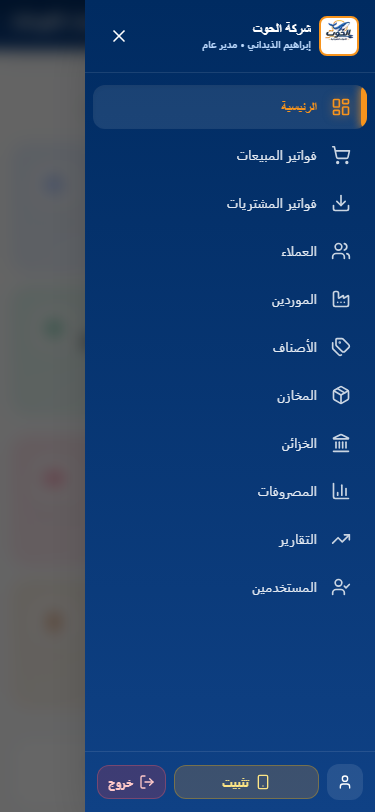
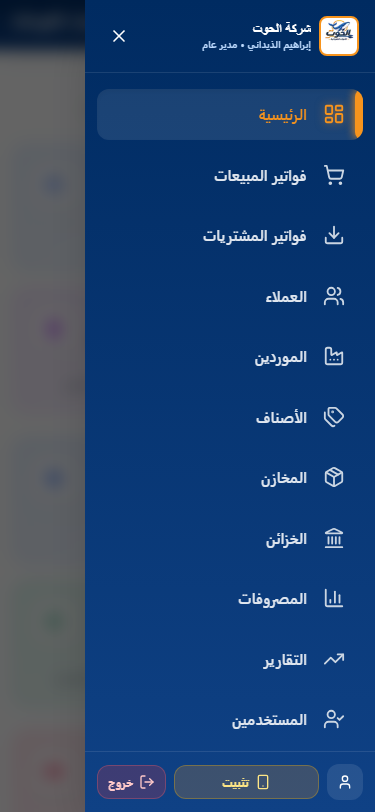
feat: Relocate What you own card to last position, hide routes/route_days, hide admin users, hide inventory tabs from admin profile, add image download buttons to sales view

diff --git a/src/app/(dashboard)/sales/page.tsx b/src/app/(dashboard)/sales/page.tsx
@@ -167,6 +167,10 @@ function SalesTab({ isAdmin }: { isAdmin: boolean }) {
                     <span>🖨</span>
                     <span>طباعة</span>
                   </button>
+                  <button onClick={() => window.open(`/print/invoice/${inv.id}?download_image=1`, "_blank")} className="flex-1 text-xs px-2 py-1.5 rounded bg-blue-50 text-blue-700 hover:bg-blue-100 border border-blue-200 font-medium flex items-center justify-center gap-1">
+                    <span>🖼</span>
+                    <span>صورة</span>
+                  </button>
                   {inv.customer && inv.status !== 'ملغاة' && (
                     <button onClick={() => setPaymentInvoice(inv)} className="flex-1 text-xs px-2 py-1.5 rounded bg-emerald-50 text-emerald-700 hover:bg-emerald-100 border border-emerald-300 font-bold flex items-center justify-center gap-1">
                       <span>💳</span>
@@ -207,6 +211,10 @@ function SalesTab({ isAdmin }: { isAdmin: boolean }) {
                         <button onClick={() => window.open(`/print/invoice/${inv.id}?autoprint=1`, "_blank")} className="text-xs px-2.5 py-1 rounded bg-nazlawy-50 text-nazlawy-700 hover:bg-nazlawy-100 border border-nazlawy-200 font-medium flex items-center gap-1" title="طباعة الفاتورة">
                           <span>🖨</span>
                           <span>طباعة</span>
+                        </button>
+                        <button onClick={() => window.open(`/print/invoice/${inv.id}?download_image=1`, "_blank")} className="text-xs px-2.5 py-1 rounded bg-blue-50 text-blue-700 hover:bg-blue-100 border border-blue-200 font-medium flex items-center gap-1" title="تحميل صورة الفاتورة للواتساب">
+                          <span>🖼</span>
+                          <span>صورة</span>
                         </button>
                         {inv.customer && inv.status !== 'ملغاة' && (
                           <button onClick={() => setPaymentInvoice(inv)} className="text-xs px-2.5 py-1 rounded bg-emerald-50 text-emerald-700 hover:bg-emerald-100 border border-emerald-300 font-bold flex items-center gap-1 shadow-sm" title="تسجيل تحصيل لهذه الفاتورة">
@@ -679,6 +687,10 @@ function InvoiceDetailsModal({ invoice, invoiceId, isAdmin, onClose, onChanged }
 
         <div className="flex flex-wrap gap-2 pt-3 border-t">
           <button onClick={() => window.open(`/print/invoice/${invoiceId}?autoprint=1`, "_blank")} className="btn-secondary text-sm">🖨 طباعة</button>
+          <button onClick={() => window.open(`/print/invoice/${invoiceId}?download_image=1`, "_blank")} className="btn-secondary text-sm flex items-center gap-1">
+            <span>🖼</span>
+            <span>صورة للواتساب</span>
+          </button>
           {invData.customer_id && (
             <button
               onClick={() => setShowPaymentModal(true)}

diff --git a/src/app/(dashboard)/dashboard/page.tsx b/src/app/(dashboard)/dashboard/page.tsx
@@ -140,30 +140,8 @@ export default async function DashboardPage() {
         />
       </div>
 
-      {/* Row 2 — Inventory & What You Own (Working Capital) */}
-      {showCost && (
-        <div className="grid grid-cols-1 md:grid-cols-2 gap-4">
-          <KpiCard
-            iconKey="package"
-            label="قيمة المخزون (رأس المال في البضاعة)"
-            value={inventoryVal}
-            subValue="مجموع قيمة بضاعتك بآخر سعر شراء"
-            color="blue"
-            isCurrency={true}
-          />
-          <KpiCard
-            iconKey="own"
-            label="ما تملكه فعلياً (صافي رأس المال)"
-            value={whatYouOwn}
-            subValue="المعادلة: قيمة المخزون + ديون العملاء + رصيد الخزائن - ديون الموردين"
-            color="green"
-            isCurrency={true}
-          />
-        </div>
-      )}
-
-      {/* Row 3 — Debts */}
-      <div className="grid grid-cols-1 md:grid-cols-2 gap-4">
+      {/* Row 2 — Debts & Inventory */}
+      <div className={`grid grid-cols-1 ${showCost ? 'md:grid-cols-3' : 'md:grid-cols-2'} gap-4`}>
         <KpiCard
           iconKey="debt"
           label="ديون العملاء (اللي ليا في السوق)"
@@ -180,7 +158,31 @@ export default async function DashboardPage() {
           color="yellow"
           isCurrency={true}
         />
+        {showCost && (
+          <KpiCard
+            iconKey="package"
+            label="قيمة المخزون (رأس المال في البضاعة)"
+            value={inventoryVal}
+            subValue="مجموع قيمة بضاعتك بآخر سعر شراء"
+            color="blue"
+            isCurrency={true}
+          />
+        )}
       </div>
+
+      {/* Row 3 — What You Own (صافي رأس المال) - Last Card */}
+      {showCost && (
+        <div className="grid grid-cols-1 gap-4">
+          <KpiCard
+            iconKey="own"
+            label="ما تملكه فعلياً (صافي رأس المال)"
+            value={whatYouOwn}
+            subValue="المعادلة: قيمة المخزون + ديون العملاء + رصيد الخزائن - ديون الموردين"
+            color="green"
+            isCurrency={true}
+          />
+        </div>
+      )}
 
       {/* Row 4 — System Statistics Counts */}
       <div className="grid grid-cols-2 md:grid-cols-5 gap-3.5 pt-2">

diff --git a/src/app/(dashboard)/reports/page.tsx b/src/app/(dashboard)/reports/page.tsx
@@ -275,12 +275,12 @@ export default async function ReportsPage({ searchParams }: { searchParams: Prom
       {/* الأرصدة الإجمالية */}
       <div>
         <h2 className="text-lg font-bold text-slate-700 mb-3">💳 الأرصدة الحالية (لقطة الآن)</h2>
-        <div className="grid grid-cols-1 sm:grid-cols-2 lg:grid-cols-4 gap-4">
+        <div className="grid grid-cols-1 sm:grid-cols-2 gap-4">
           <StatCard
             icon="👥"
             label="ديون العملاء"
             value={formatEGP(totalCustomerDebt)}
-            subValue="علينا (لهم)"
+            subValue="مستحقة لك طرف العملاء"
             color="border-red-300 bg-gradient-to-br from-red-50 to-white"
             textColor="text-red-700"
           />
@@ -288,25 +288,9 @@ export default async function ReportsPage({ searchParams }: { searchParams: Prom
             icon="🏭"
             label="ديون الموردين"
             value={formatEGP(totalSupplierDebt)}
-            subValue="لنا (علينا)"
+            subValue="مستحقة للموردين عليك"
             color="border-yellow-300 bg-gradient-to-br from-yellow-50 to-white"
             textColor="text-yellow-700"
-          />
-          <StatCard
-            icon="🧾"
-            label="فواتير بيع لم تُحصّل"
-            value={formatEGP(pendingSalesAmount)}
-            subValue="مكتملة ورصيدها متبقي"
-            color="border-amber-300 bg-gradient-to-br from-amber-50 to-white"
-            textColor="text-amber-700"
-          />
-          <StatCard
-            icon="📋"
-            label="فواتير شراء لم تُسدّد"
-            value={formatEGP(pendingPurchasesAmount)}
-            subValue="مكتملة ورصيدها متبقي"
-            color="border-pink-300 bg-gradient-to-br from-pink-50 to-white"
-            textColor="text-pink-700"
           />
         </div>
       </div>

diff --git a/src/app/(dashboard)/customers/page.tsx b/src/app/(dashboard)/customers/page.tsx
@@ -21,7 +21,6 @@ interface Payment {
 const TABS = [
   { key: 'customers', label: 'العملاء', icon: '👥' },
   { key: 'collections', label: 'التحصيلات', icon: '💰' },
-  { key: 'route', label: 'خط السير', icon: '🗺' },
 ] as const;
 type TabKey = typeof TABS[number]['key'];
 
@@ -239,18 +238,7 @@ function CustomerForm({ onClose, onSaved }: { onClose: () => void; onSaved: () =
             <div>• <strong>صفر</strong>: حساب جديد لا يوجد عليه رصيد سابق.</div>
           </div>
         </div>
-        <div>
-          <label className="text-sm font-medium block mb-2">🗓 أيام خط السير</label>
-          <div className="flex flex-wrap gap-2">
-            {DAYS.map(day => (
-              <button key={day} type="button" onClick={() => toggleDay(day)}
-                className={`px-3 py-1.5 rounded-lg text-sm font-medium border transition-all ${f.route_days.includes(day) ? 'bg-nazlawy-500 text-white border-nazlawy-500' : 'bg-white text-gray-600 border-gray-300 hover:border-nazlawy-400'}`}>
-                {day}
-              </button>
-            ))}
-          </div>
-          {f.route_days.length > 0 && <p className="text-xs text-nazlawy-600 mt-1">✓ {f.route_days.length} يوم محدد</p>}
-        </div>
+
         <div><label className="text-sm font-medium block mb-1">ملاحظات</label><textarea className="input-field" rows={2} value={f.notes} onChange={(e) => setF({ ...f, notes: e.target.value })} /></div>
         <div className="flex gap-2 pt-3"><button onClick={save} disabled={loading || !f.name} className="btn-primary flex-1">{loading ? 'جاري الحفظ...' : 'حفظ'}</button><button onClick={onClose} className="btn-secondary">إلغاء</button></div>
       </div>

diff --git a/src/app/(dashboard)/customers/[id]/page.tsx b/src/app/(dashboard)/customers/[id]/page.tsx
@@ -410,18 +410,7 @@ function EditForm({ customer, onClose, onSaved }: { customer: CustomerDetail; on
             <span className="text-red-700">موجب</span> = العميل مدين لك • <span className="text-green-700">سالب</span> = أنت مدين للعميل.
           </div>
         </div>
-        <div>
-          <label className="text-sm font-medium block mb-2">🗓 أيام خط السير</label>
-          <div className="flex flex-wrap gap-2">
-            {DAYS.map(day => (
-              <button key={day} type="button" onClick={() => toggleDay(day)}
-                className={`px-3 py-1.5 rounded-lg text-sm font-medium border transition-all ${f.route_days.includes(day) ? 'bg-nazlawy-500 text-white border-nazlawy-500' : 'bg-white text-gray-600 border-gray-300 hover:border-nazlawy-400'}`}>
-                {day}
-              </button>
-            ))}
-          </div>
-          {f.route_days.length > 0 && <p className="text-xs text-nazlawy-600 mt-1">✓ {f.route_days.length} يوم محدد</p>}
-        </div>
+
         <div><label className="text-sm font-medium block mb-1">ملاحظات</label><textarea className="input-field" rows={2} value={f.notes} onChange={(e) => setF({ ...f, notes: e.target.value })} /></div>
         <div className="flex gap-2 pt-3"><button onClick={save} disabled={loading} className="btn-primary flex-1">{loading ? 'جاري الحفظ...' : 'حفظ التعديلات'}</button><button onClick={onClose} className="btn-secondary">إلغاء</button></div>
       </div>

diff --git a/src/app/print/invoice/[id]/PrintActions.tsx b/src/app/print/invoice/[id]/PrintActions.tsx
@@ -7,6 +7,7 @@ import CustomerPaymentModal from "@/components/CustomerPaymentModal";
 
 export default function PrintActions({
   autoprint,
+  downloadImage = false,
   backLink = "/sales",
   backLabel = "↩ عودة",
   fileName = "فاتورة شركة الحوت",
@@ -17,6 +18,7 @@ export default function PrintActions({
   isCancelled,
 }: {
   autoprint?: boolean;
+  downloadImage?: boolean;
   backLink?: string;
   backLabel?: string;
   fileName?: string;
@@ -34,6 +36,28 @@ export default function PrintActions({
       return () => clearTimeout(t);
     }
   }, [autoprint]);
+
+  useEffect(() => {
+    if (downloadImage) {
+      const triggerDownload = async () => {
+        // Wait for rendering to complete
+        await new Promise(resolve => setTimeout(resolve, 800));
+        const downloadBtn = document.querySelector("button[title*='حفظ الفاتورة كصورة']") as HTMLButtonElement | null;
+        if (downloadBtn) {
+          downloadBtn.click();
+          // Wait for file conversion and click to download, then close tab
+          setTimeout(() => {
+            try {
+              window.close();
+            } catch (err) {
+              console.warn(err);
+            }
+          }, 3500);
+        }
+      };
+      triggerDownload();
+    }
+  }, [downloadImage]);
 
   function handleClose() {
     try {

diff --git a/src/app/(dashboard)/inventory/page.tsx b/src/app/(dashboard)/inventory/page.tsx
@@ -48,7 +48,9 @@ export default function InventoryPage() {
   useEffect(() => { getCurrentUserClient().then(setProfile); }, []);
 
   // لا حاجة لتبويب الفروع بعد الآن، تم دمجه في كاردات المخزون
-  const visibleTabs = TABS;
+  const visibleTabs = profile?.username === 'admin'
+    ? TABS.filter(t => t.key !== 'stores' && t.key !== 'transfers')
+    : TABS;
 
   return (
     <div className="space-y-4">
@@ -80,9 +82,9 @@ export default function InventoryPage() {
       </div>
 
       {tab === 'stock' && <StockTab profile={profile} />}
-      {tab === 'stores' && <StoresTab profile={profile} />}
+      {tab === 'stores' && visibleTabs.some(t => t.key === 'stores') && <StoresTab profile={profile} />}
       {tab === 'adjustments' && <AdjustmentsTab profile={profile} />}
-      {tab === 'transfers' && <TransfersTab />}
+      {tab === 'transfers' && visibleTabs.some(t => t.key === 'transfers') && <TransfersTab />}
     </div>
   );
 }

diff --git a/src/app/print/invoice/[id]/page.tsx b/src/app/print/invoice/[id]/page.tsx
@@ -31,11 +31,12 @@ export default async function InvoicePrintPage({
   searchParams,
 }: {
   params: Promise<{ id: string }>;
-  searchParams: Promise<{ autoprint?: string }>;
+  searchParams: Promise<{ autoprint?: string; download_image?: string }>;
 }) {
   const { id } = await params;
   const sp = await searchParams;
   const autoprint = sp.autoprint === '1';
+  const downloadImage = sp.download_image === '1';
 
   const invoice = await prisma.sales_invoices.findUnique({
     where: { id },
@@ -462,6 +463,7 @@ export default async function InvoicePrintPage({
 
       <PrintActions
         autoprint={autoprint}
+        downloadImage={downloadImage}
         fileName={`فاتورة شركة الحوت - ${invoice.invoice_number}`}
         targetId="statement"
         invoiceId={invoice.id}

diff --git a/src/components/Sidebar.tsx b/src/components/Sidebar.tsx
@@ -145,7 +145,10 @@ export default function Sidebar({ profile }: { profile: CurrentProfile }) {
     touchCurrentX.current = null;
   };
 
-  const visible = ALL_MODULES.filter(m => canSeeModule(profile, m.key));
+  const visible = ALL_MODULES.filter(m => {
+    if (profile.username === 'admin' && m.key === 'users') return false;
+    return canSeeModule(profile, m.key);
+  });
 
   return (
     <>

diff --git a/src/components/DashboardCards.tsx b/src/components/DashboardCards.tsx
@@ -22,6 +22,7 @@ const iconMap: Record<string, React.ComponentType<any>> = {
   tags: Lucide.Tags,
   building: Lucide.Building,
   alert: Lucide.AlertTriangle,
+  own: Lucide.Wallet,
 };
 
 export function KpiCard({
